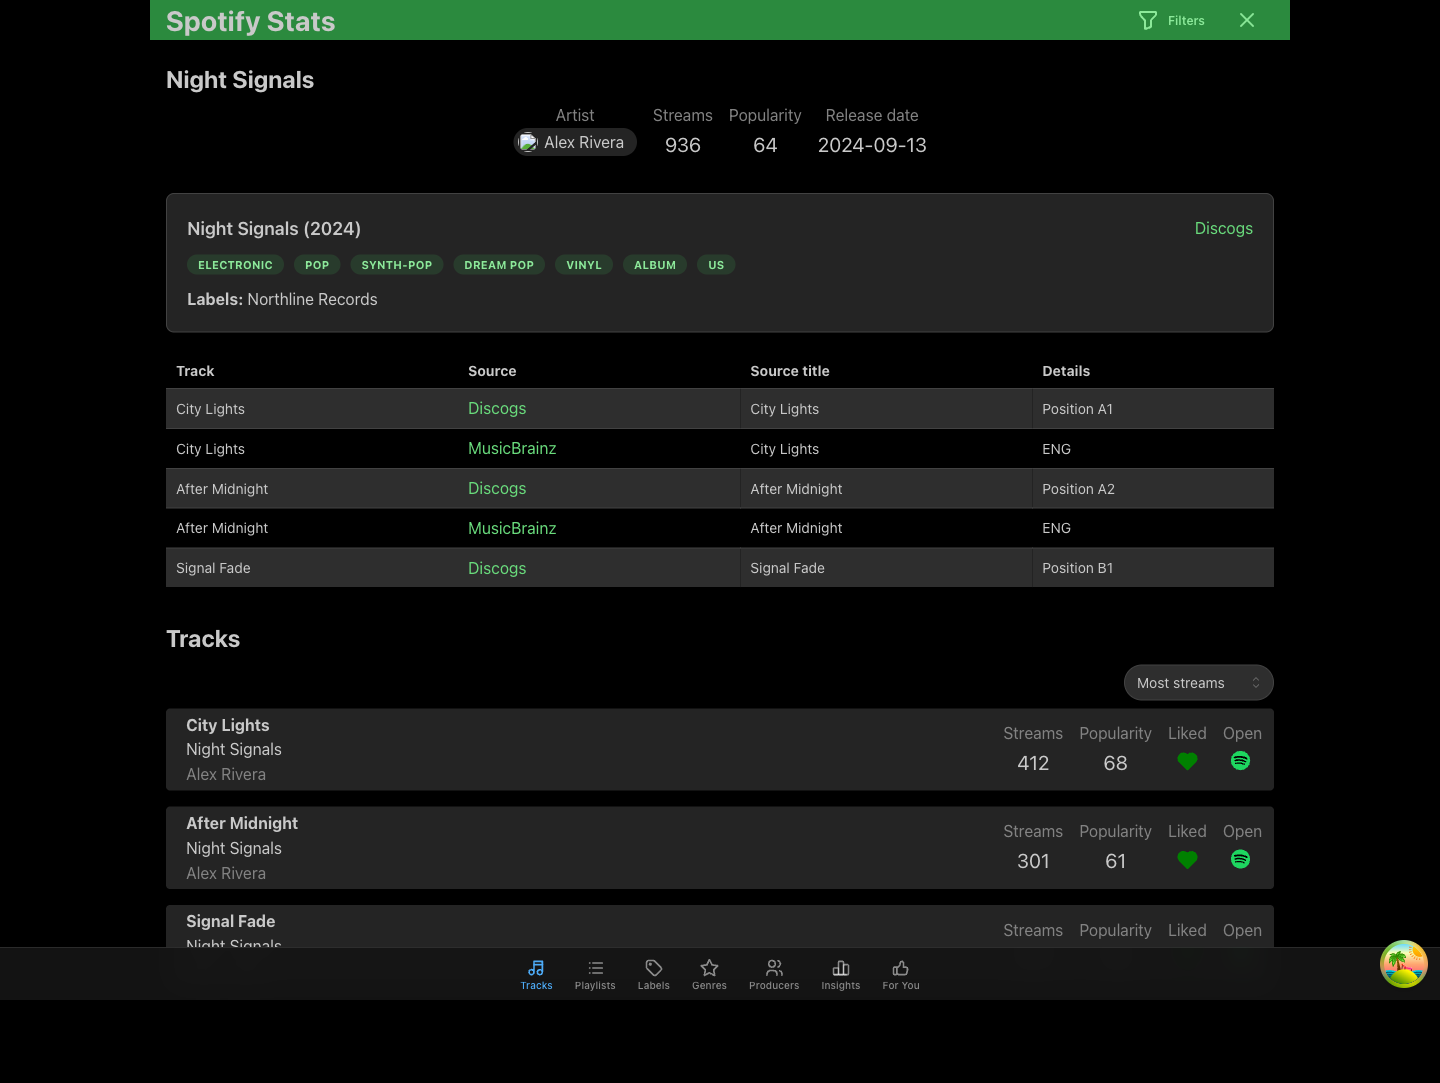
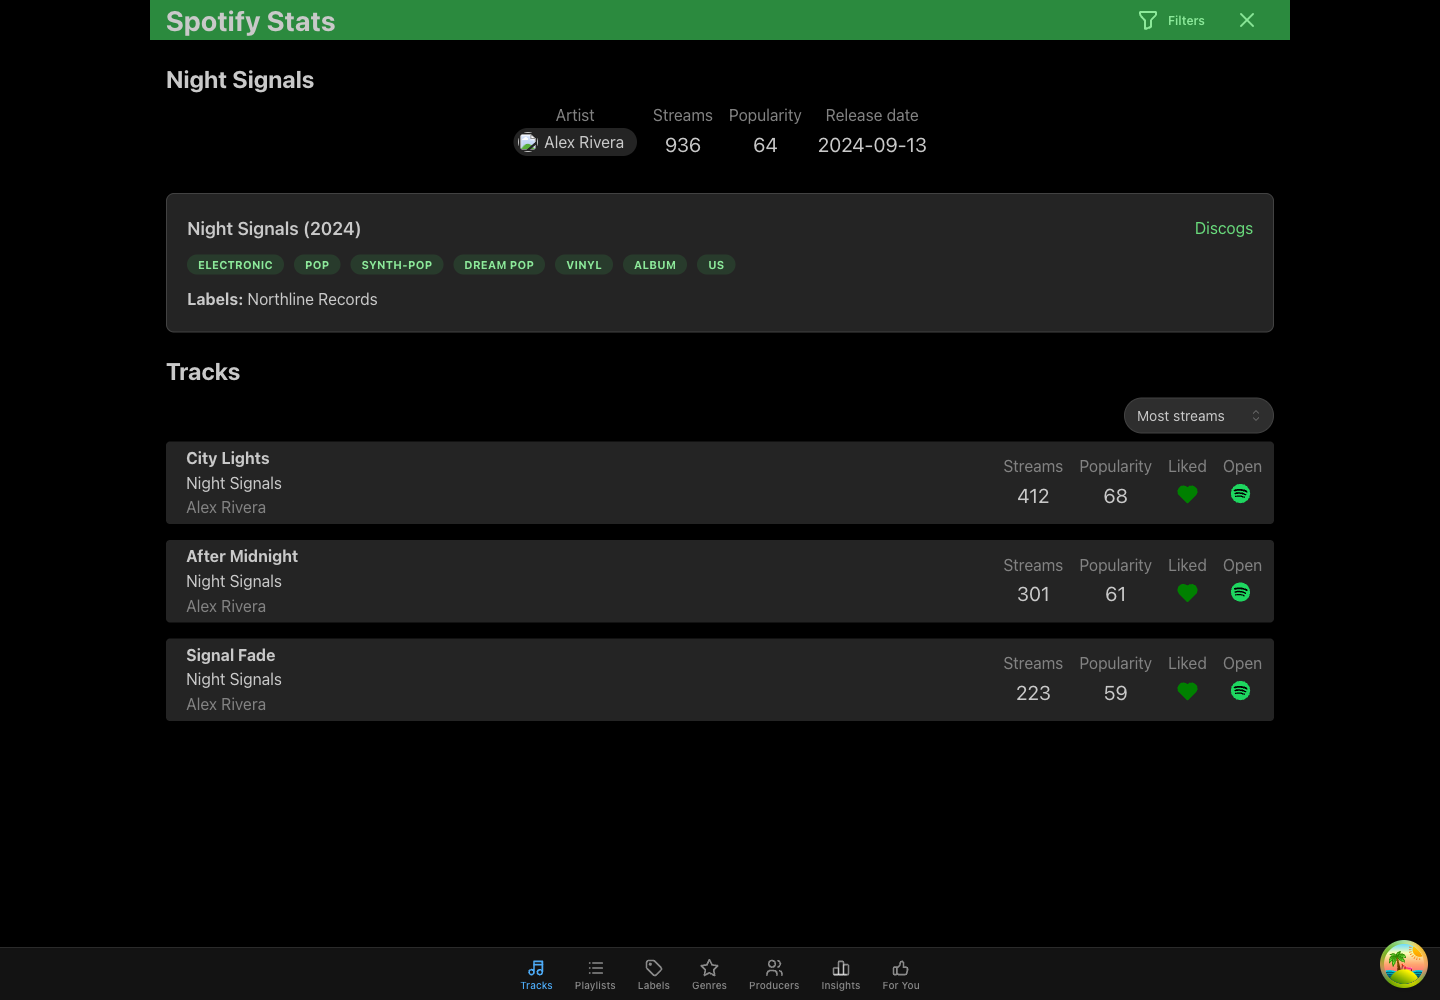
Remove album source track table
Copilot-Session: 787e165d-2cf7-4668-932c-0e909175b5fe

diff --git a/client/src/details/AlbumDetails.tsx b/client/src/details/AlbumDetails.tsx
@@ -1,9 +1,6 @@
-import { Anchor, Badge, Group, Paper, Stack, Table, Text } from "@mantine/core";
+import { Anchor, Badge, Group, Paper, Stack, Text } from "@mantine/core";
 
-import {
-  AlbumTrackMetadata,
-  DiscogsMasterMetadata,
-} from "../api";
+import { DiscogsMasterMetadata } from "../api";
 import { AlbumStreamsLineChart } from "../charts/AlbumsLineChart";
 import { AlbumsStreamingHistoryStack } from "../charts/AlbumsStreamingHistoryStack";
 import { ArtistPills } from "../design/ArtistPills";
@@ -59,10 +56,7 @@ export function AlbumDetails({ albumURI }: AlbumDetailsProps) {
         />
       </div>
       {metadata && (
-        <AlbumSourceMetadata
-          masters={metadata.discogs_masters}
-          tracks={metadata.tracks}
-        />
+        <AlbumSourceMetadata masters={metadata.discogs_masters} />
       )}
       <AlbumsStreamingHistoryStack />
       <AlbumStreamsLineChart height={300} />
@@ -72,19 +66,10 @@ export function AlbumDetails({ albumURI }: AlbumDetailsProps) {
 
 function AlbumSourceMetadata({
   masters,
-  tracks,
 }: {
   masters: DiscogsMasterMetadata[];
-  tracks: AlbumTrackMetadata[];
 }) {
-  if (masters.length === 0 && tracks.length === 0) return null;
-
-  const tracksByUri = Object.values(
-    tracks.reduce<Record<string, AlbumTrackMetadata[]>>((grouped, track) => {
-      grouped[track.track_uri] = [...(grouped[track.track_uri] ?? []), track];
-      return grouped;
-    }, {}),
-  );
+  if (masters.length === 0) return null;
 
   return (
     <Stack gap="lg" mt="xl">
@@ -123,52 +108,6 @@ function AlbumSourceMetadata({
         </Paper>
       ))}
 
-      {tracksByUri.length > 0 && (
-        <Table.ScrollContainer minWidth={600}>
-          <Table striped highlightOnHover>
-            <Table.Thead>
-              <Table.Tr>
-                <Table.Th>Track</Table.Th>
-                <Table.Th>Source</Table.Th>
-                <Table.Th>Source title</Table.Th>
-                <Table.Th>Details</Table.Th>
-              </Table.Tr>
-            </Table.Thead>
-            <Table.Tbody>
-              {tracksByUri.flatMap((sourceTracks) =>
-                sourceTracks.map((track) => (
-                  <Table.Tr
-                    key={`${track.track_uri}-${track.source}-${track.source_id}`}
-                  >
-                    <Table.Td>{track.track_name}</Table.Td>
-                    <Table.Td>
-                      <Anchor
-                        href={
-                          track.source === "musicbrainz"
-                            ? `https://musicbrainz.org/recording/${track.source_id}`
-                            : `https://www.discogs.com/master/${track.source_id}`
-                        }
-                        target="_blank"
-                        rel="noreferrer"
-                      >
-                        {track.source === "musicbrainz"
-                          ? "MusicBrainz"
-                          : "Discogs"}
-                      </Anchor>
-                    </Table.Td>
-                    <Table.Td>{track.source_title}</Table.Td>
-                    <Table.Td>
-                      {track.position
-                        ? `Position ${track.position}`
-                        : track.language?.toUpperCase() || "-"}
-                    </Table.Td>
-                  </Table.Tr>
-                )),
-              )}
-            </Table.Tbody>
-          </Table>
-        </Table.ScrollContainer>
-      )}
     </Stack>
   );
 }

diff --git a/client/src/api.ts b/client/src/api.ts
@@ -123,19 +123,8 @@ export interface DiscogsMasterMetadata {
   formats: string[];
 }
 
-export interface AlbumTrackMetadata {
-  track_uri: string;
-  track_name: string;
-  source: "musicbrainz" | "discogs";
-  source_id: string;
-  source_title: string;
-  language: string | null;
-  position: string | null;
-}
-
 export interface AlbumMetadata {
   discogs_masters: DiscogsMasterMetadata[];
-  tracks: AlbumTrackMetadata[];
 }
 
 export interface Label {

diff --git a/data/repository.py b/data/repository.py
@@ -22,7 +22,6 @@ class ArtistCredits:
 @dataclass(frozen=True)
 class AlbumMetadata:
     discogs_masters: pd.DataFrame
-    tracks: pd.DataFrame
 
 
 @dataclass(frozen=True)
@@ -215,18 +214,12 @@ class DataRepository:
         )
 
     def album_metadata(self, album_uri: str) -> AlbumMetadata:
-        with get_engine().begin() as connection:
-            discogs_masters = self._read_dataframe_on(
-                connection,
+        return AlbumMetadata(
+            discogs_masters=self._read_dataframe(
                 "select_album_discogs_metadata",
                 {"album_uri": album_uri},
             )
-            tracks = self._read_dataframe_on(
-                connection,
-                "select_album_track_metadata",
-                {"album_uri": album_uri},
-            )
-        return AlbumMetadata(discogs_masters=discogs_masters, tracks=tracks)
+        )
 
     def insight_frames(
         self, filters: Mapping[str, Any]

diff --git a/routes/albums.py b/routes/albums.py
@@ -16,7 +16,4 @@ def albums_payload(filters: dict):
 
 def album_metadata_payload(album_uri: str):
     metadata = repository.album_metadata(album_uri)
-    return {
-        "discogs_masters": to_json(metadata.discogs_masters),
-        "tracks": to_json(metadata.tracks),
-    }
+    return {"discogs_masters": to_json(metadata.discogs_masters)}
